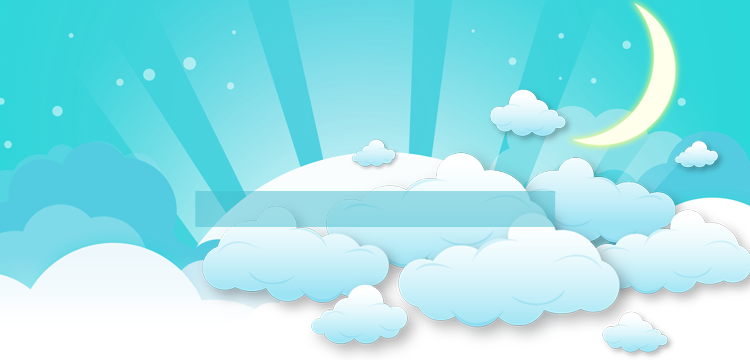
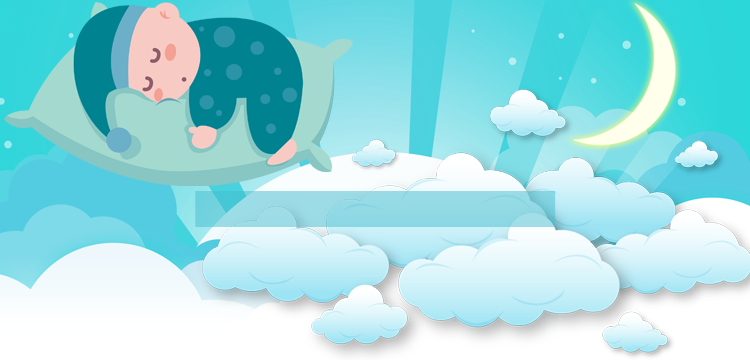
add

Changed region(s): [[0.0, 0.0, 0.4907, 0.5194]]

diff --git a/web-children/styles/css_scss/styles.css b/web-children/styles/css_scss/styles.css
@@ -1135,7 +1135,7 @@ body {
 .second-7 {
   background-image: url(../../images/bg-7-1.png); }
   .second-7::before {
-    background-image: url(../../images/p3-bg-7.png); }
+    background-image: url(../../images/p3-bg-7-1.png); }
   .second-7::after {
     background-image: url(../../images/bg-7-1.png); }
   .second-7 .tabs-and-boxs .tabs-boxs ul:first-child {
@@ -1466,7 +1466,7 @@ body {
 .third-7 {
   background-image: url(../../images/bg-7-1.png); }
   .third-7::before {
-    background-image: url(../../images/p3-bg-7.png); }
+    background-image: url(../../images/p3-bg-7-2.png); }
   .third-7::after {
     background-image: url(../../images/bg-7-1.png); }
   .third-7 .third-about .about-img {

diff --git a/web-children/styles/css_scss/scss/_seven.scss b/web-children/styles/css_scss/scss/_seven.scss
@@ -139,7 +139,7 @@
 }
 
 .second-7{
-	&::before{background-image: url(../../images/p3-bg-7.png);}
+	&::before{background-image: url(../../images/p3-bg-7-1.png);}
 	&::after{background-image: url(../../images/bg-7-1.png);}
 	.tabs-and-boxs .tabs-boxs ul:first-child{
 		border-radius: .333rem;
@@ -455,7 +455,7 @@ $tc1-7: #19A5BA;
 $tc2-7: #a3d7dc;
 
 .third-7{
-	&::before{background-image: url(../../images/p3-bg-7.png);}
+	&::before{background-image: url(../../images/p3-bg-7-2.png);}
 	&::after{background-image: url(../../images/bg-7-1.png);}
 	background-image: url(../../images/bg-7-1.png);
 	.third-about .about-img{width: rem(243); margin: rem(150) rem(10) 0 0;}
